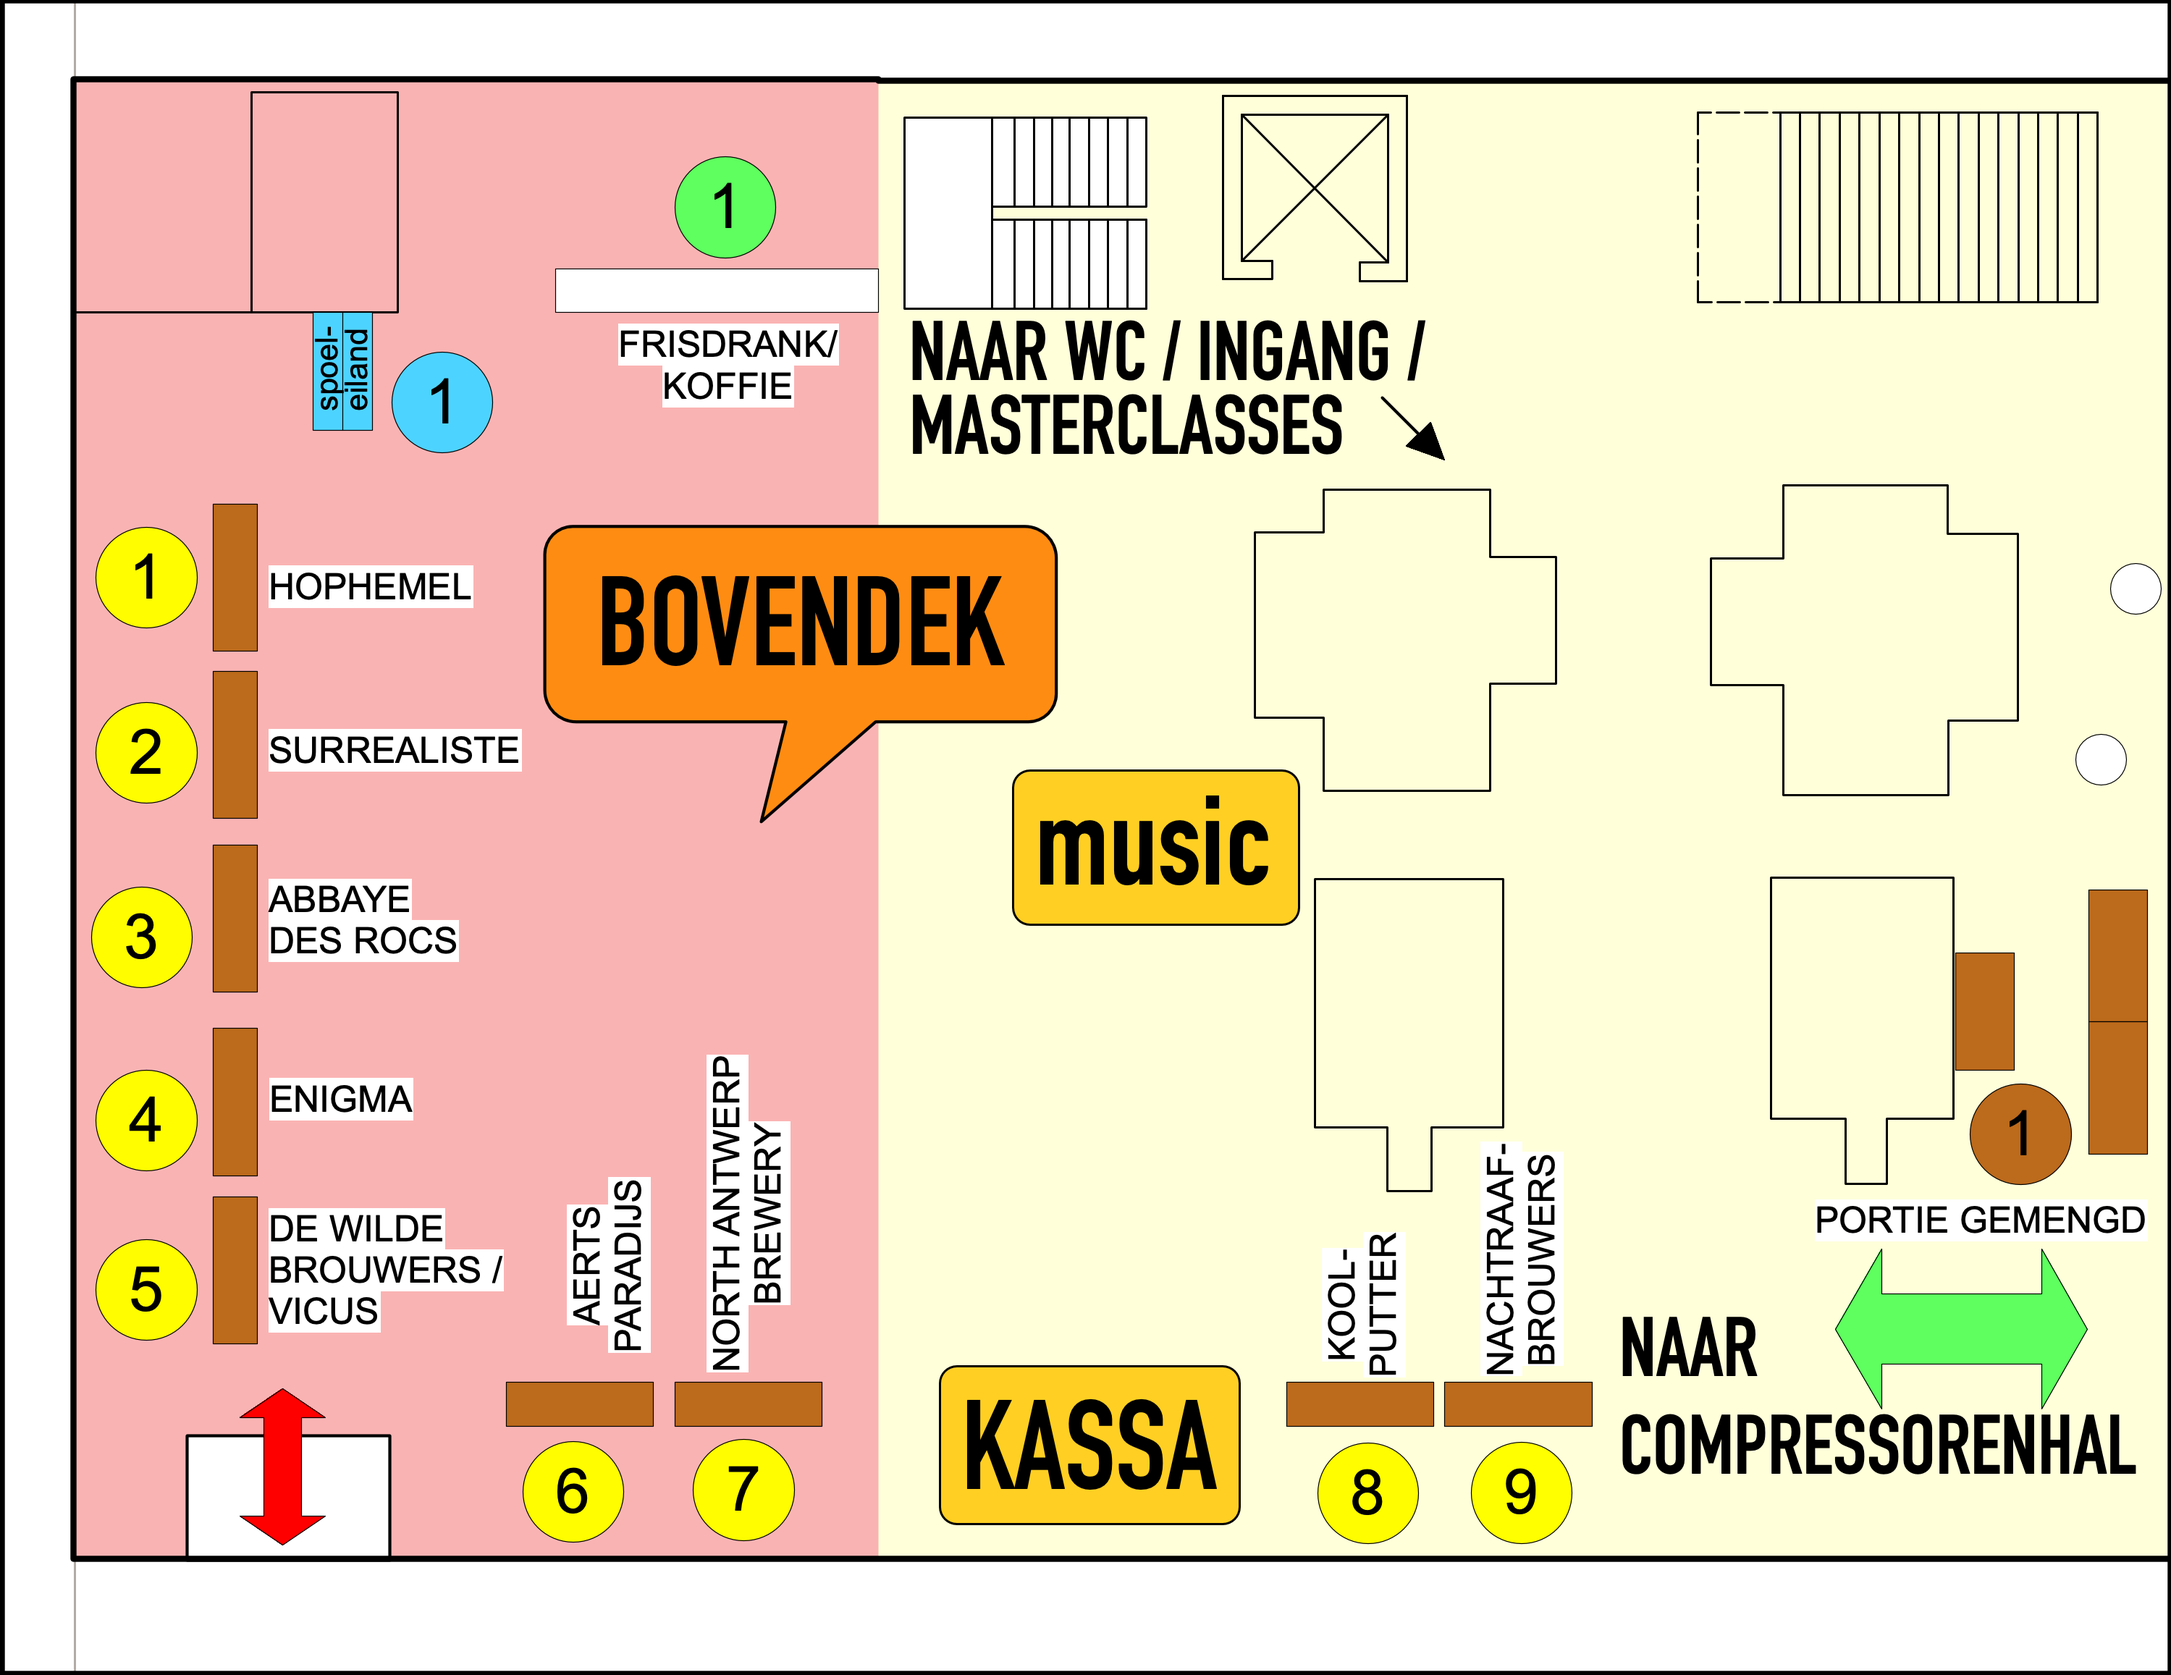
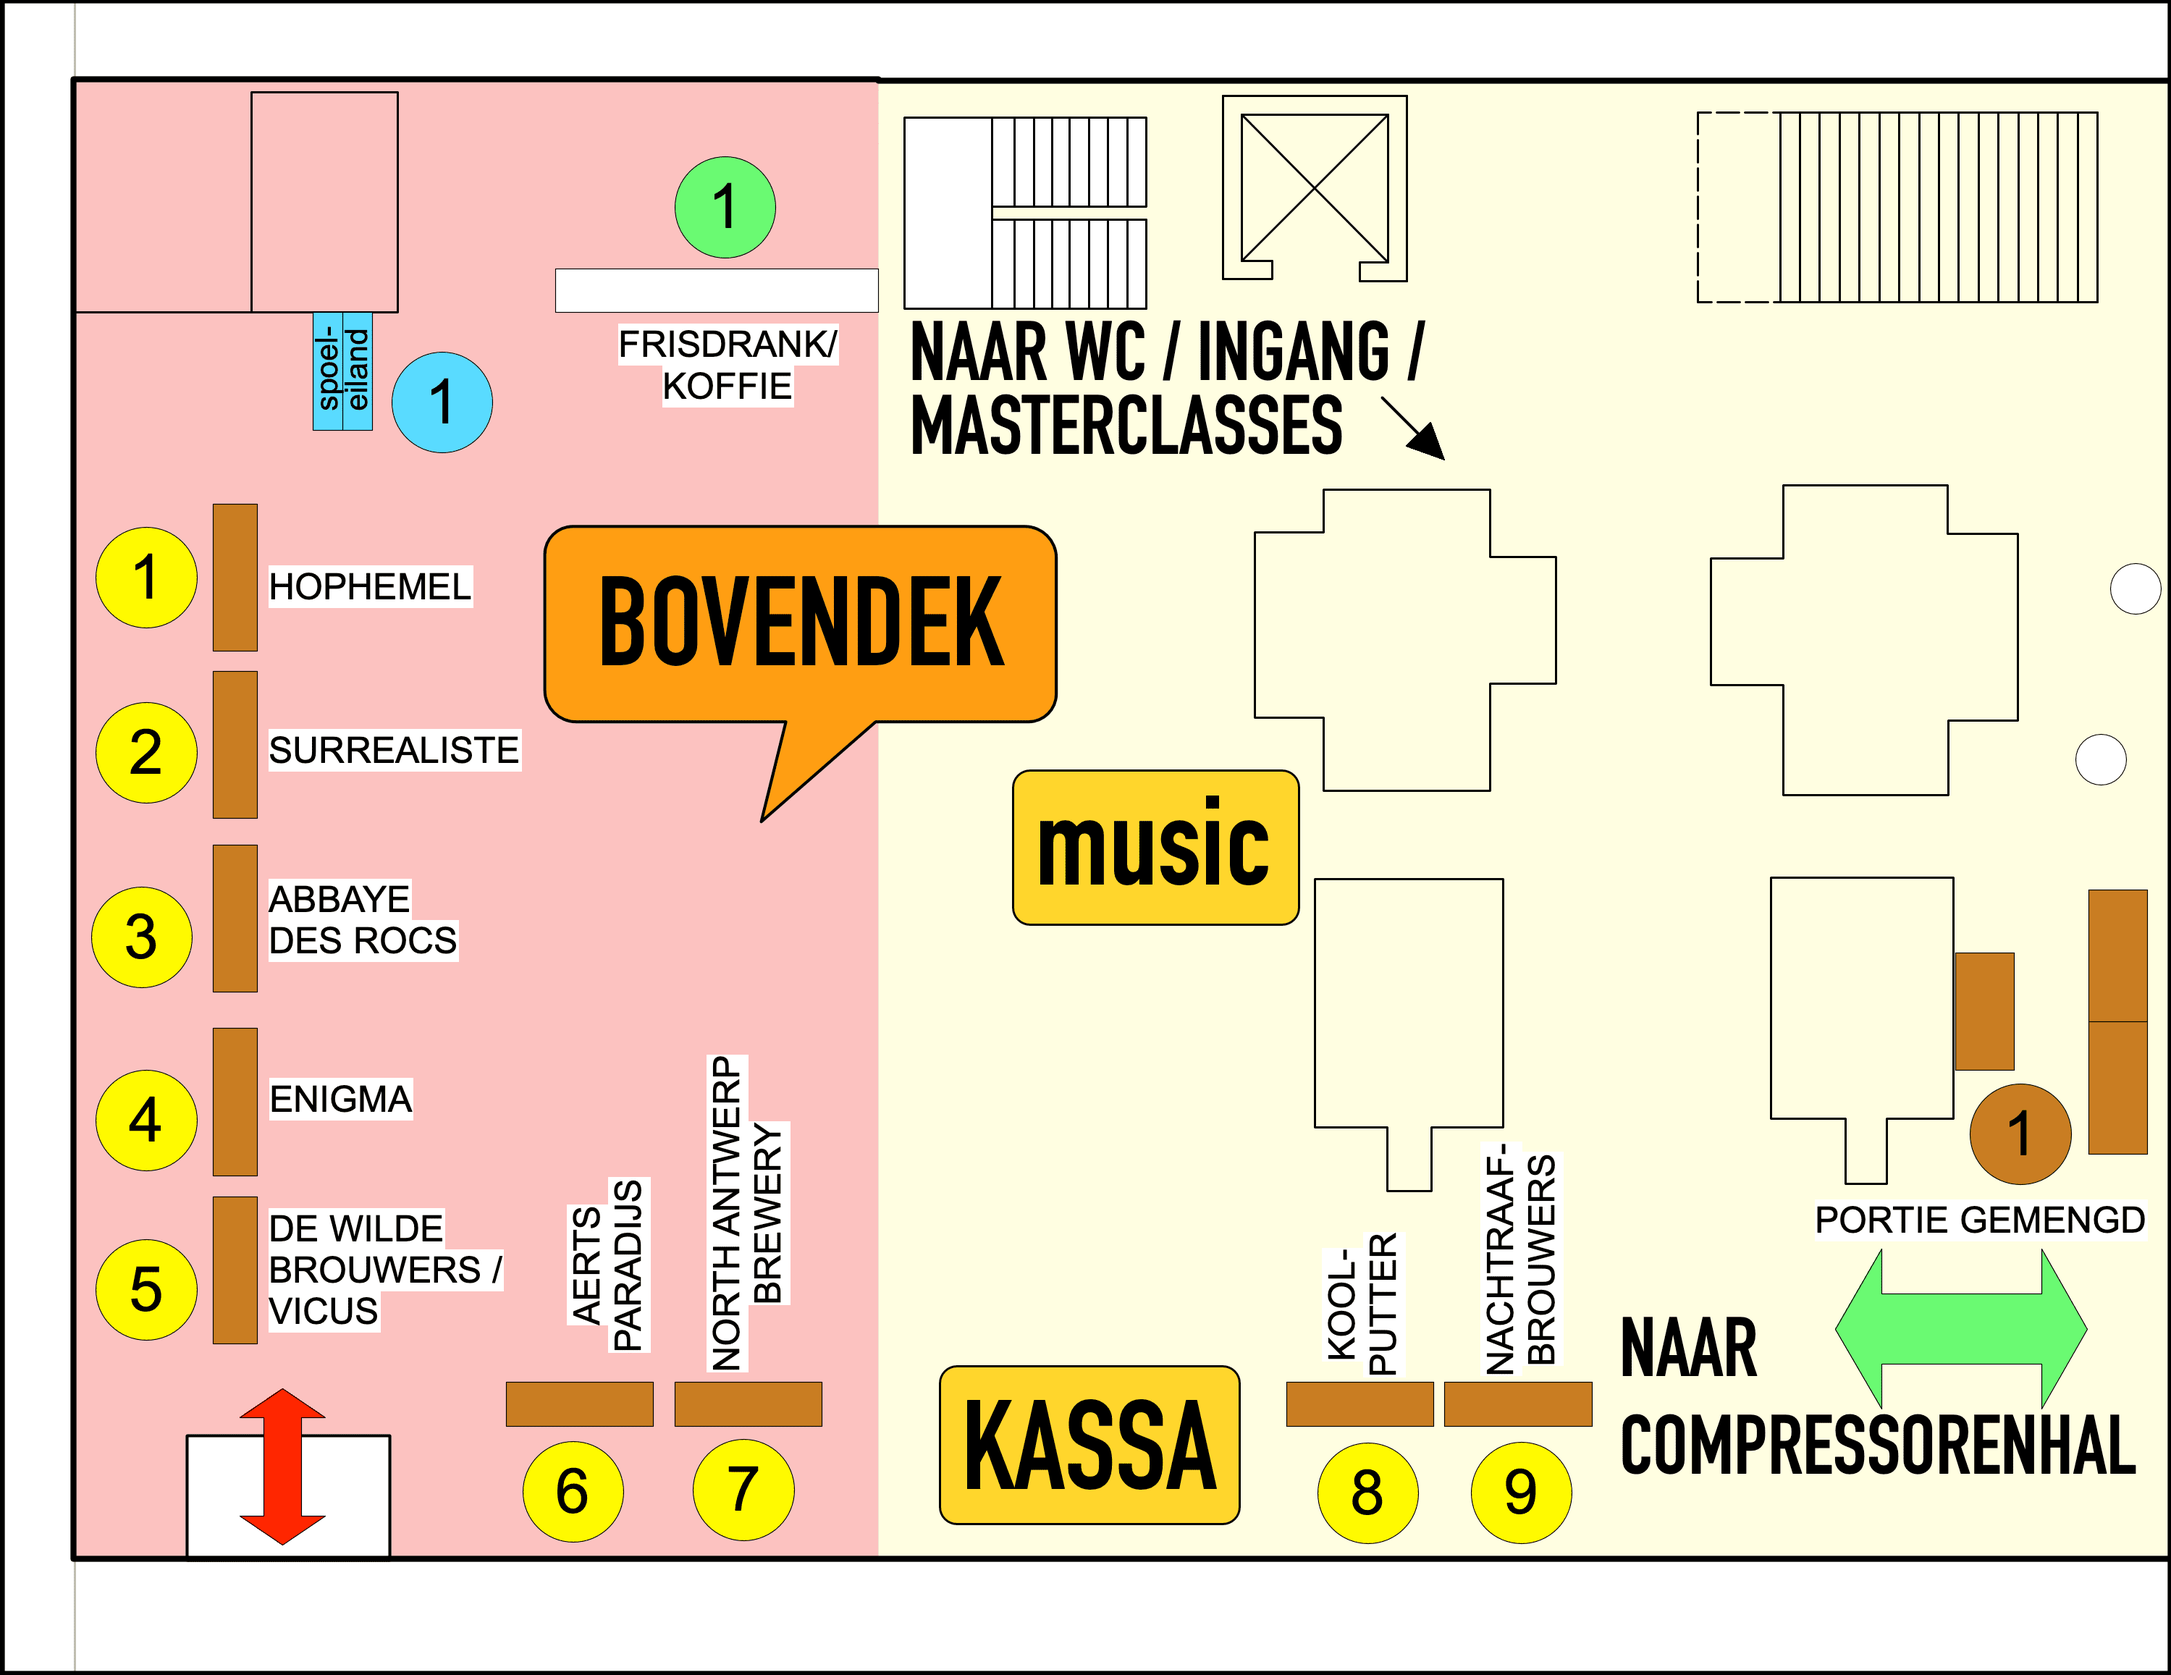
compressed images

Changed region(s): [[0.093, 0.809, 0.1551, 0.9334]]

diff --git a/index.html b/index.html
@@ -92,7 +92,7 @@
                                             href="html/map/Submappen/bovendek.html">
                                         <area shape="circle" coords="310,489,30" alt="masterclasses"
                                             href="html/map/Submappen/masterclasses.html">
-                                        <img id="map" alt="Map" src="assets/map2.png" usemap="#workmap">
+                                        <img id="map" alt="Map" src="assets/map.png" usemap="#workmap">
                                     </map>
                                 </div>
                                 <div class="col-sm">
